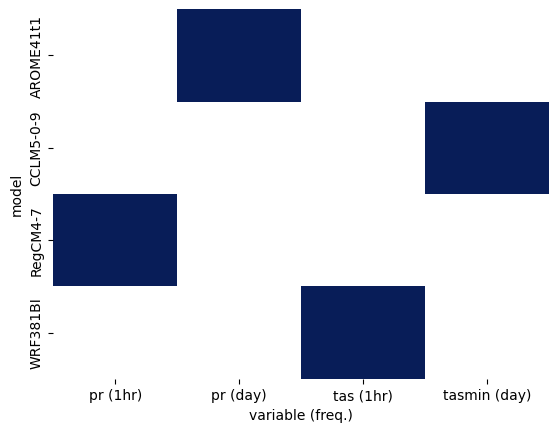
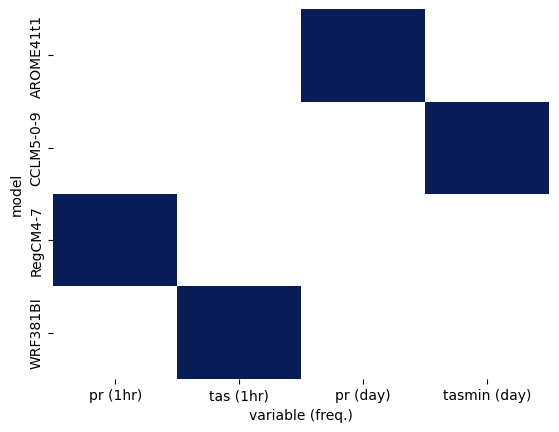
Group variables in heatmap by frequency

Changed region(s): [[0.3041, 0.662, 0.7603, 0.9329], [0.3041, 0.0, 0.7603, 0.2407]]

diff --git a/CORDEX_FPSCONV_status.py b/CORDEX_FPSCONV_status.py
@@ -8,7 +8,6 @@ import pandas as pd
 import re
 import seaborn as sns
 
-
 from funs import *
 from pyesgf.search import SearchConnection
 
@@ -53,16 +52,15 @@ df.sort_values(['domain', 'institution', 'model', 'model_version', 'driving_mode
 #  Plot variable availability as heatmap
 #
 data = pd.read_csv('docs/CORDEX_FPSCONV_ESGF_all_variables.csv', usecols=['variable', 'frequency', 'model'])
-data['varfreq'] = data['variable'] + ' (' + data['frequency'] + ')'
-data.drop(['variable', 'frequency'], axis = 'columns', inplace = True)
 data.drop_duplicates(inplace = True)
 # matrix with models as rows and variables as columns
-matrix = data.pivot_table(index='model', columns='varfreq', aggfunc='size', fill_value=0)
+matrix = data.pivot_table(index='model', columns=['frequency', 'variable'], aggfunc='size', fill_value=0)
 matrix = matrix.replace(0, np.nan)
 # Plot as heatmap (make sure to show all ticks and labels)
 ax = sns.heatmap(matrix, cmap='YlGnBu_r', annot=False, cbar=False)
 ax.set_xticks(0.5+np.arange(len(matrix.columns)))
-ax.set_xticklabels(matrix.columns)
+xticklabels = [f'{v} ({f})' for f,v in matrix.columns]
+ax.set_xticklabels(xticklabels)
 ax.set_xlabel("variable (freq.)")
 ax.set_yticks(0.5+np.arange(len(matrix.index)))
 ax.set_yticklabels(matrix.index)
